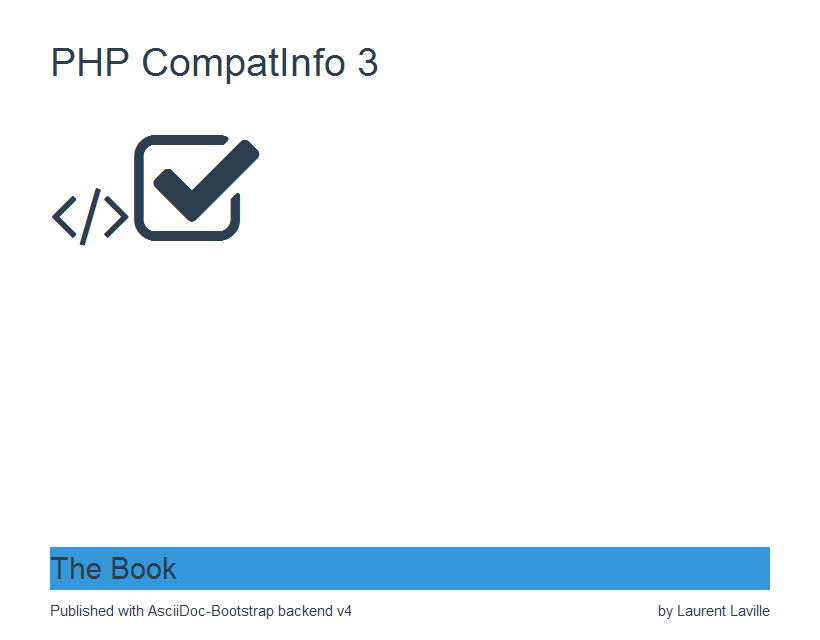
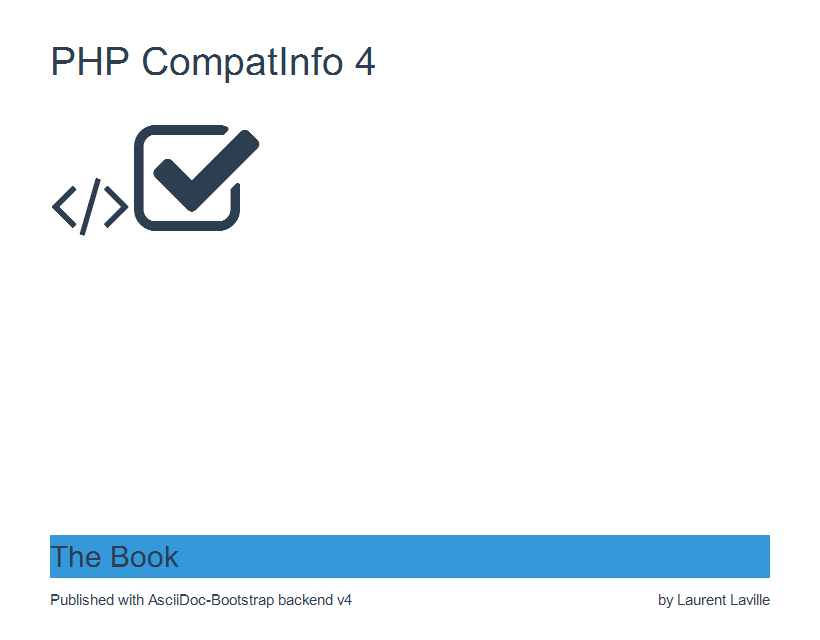
update cover page of v4

Changed region(s): [[0.061, 0.8125, 0.9451, 0.9688], [0.061, 0.1875, 0.3354, 0.375], [0.061, 0.0625, 0.4573, 0.125]]

diff --git a/docs/stylesheets/cover.css b/docs/stylesheets/cover.css
@@ -1,5 +1,9 @@
+h1#_php_compatinfo_4 {
+    margin-top: 20px;
+}
+
 .cover {
-    height: 30em;
+    height: 28em;
 }
 
 footer {
